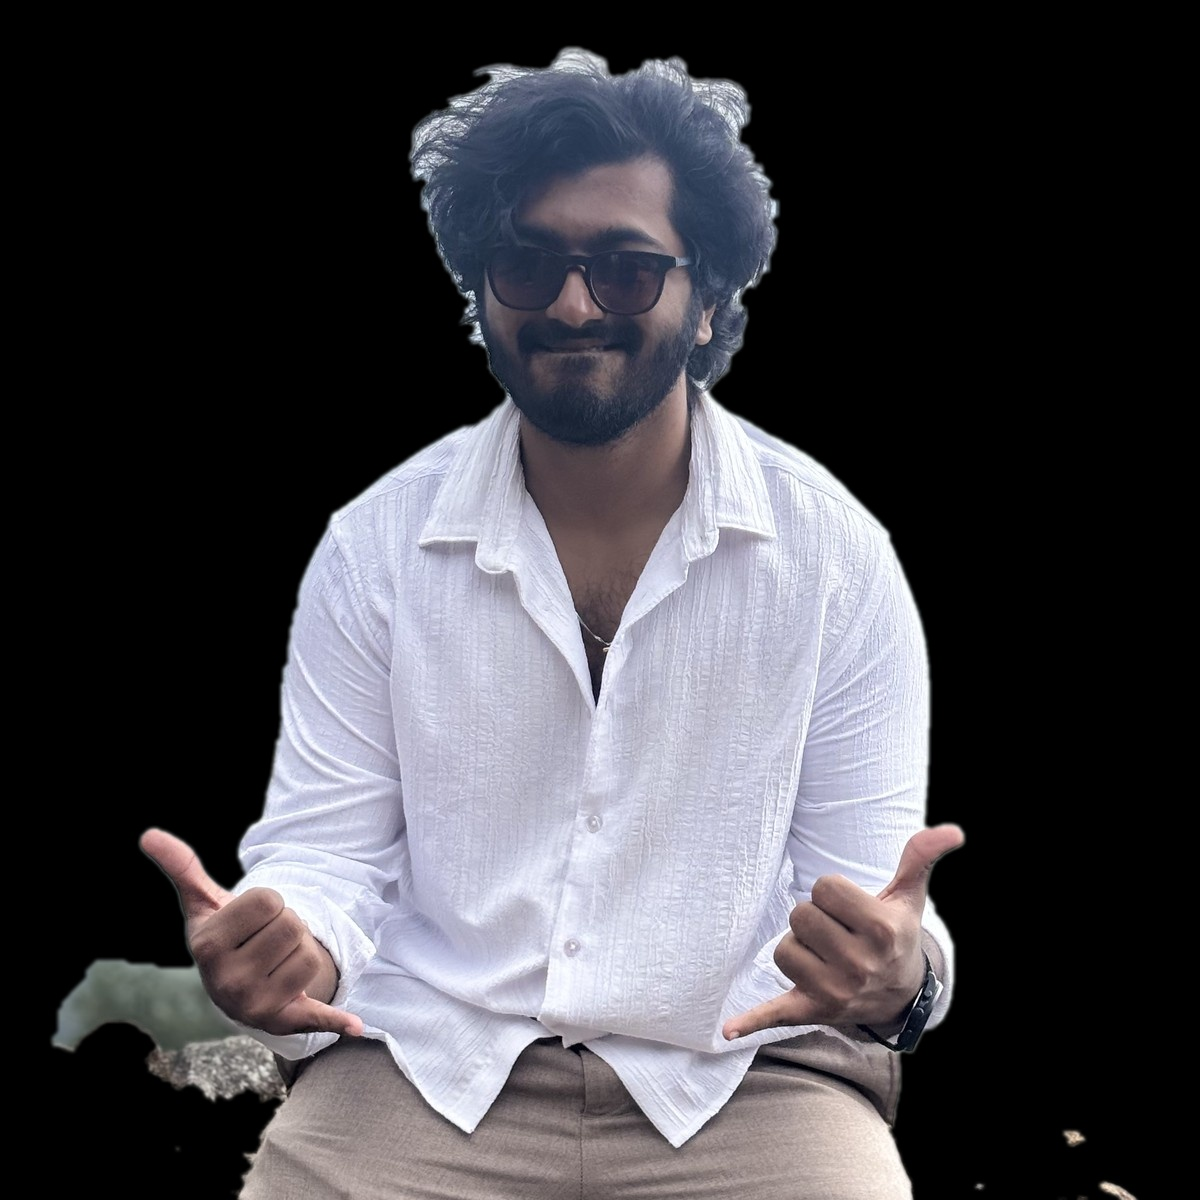
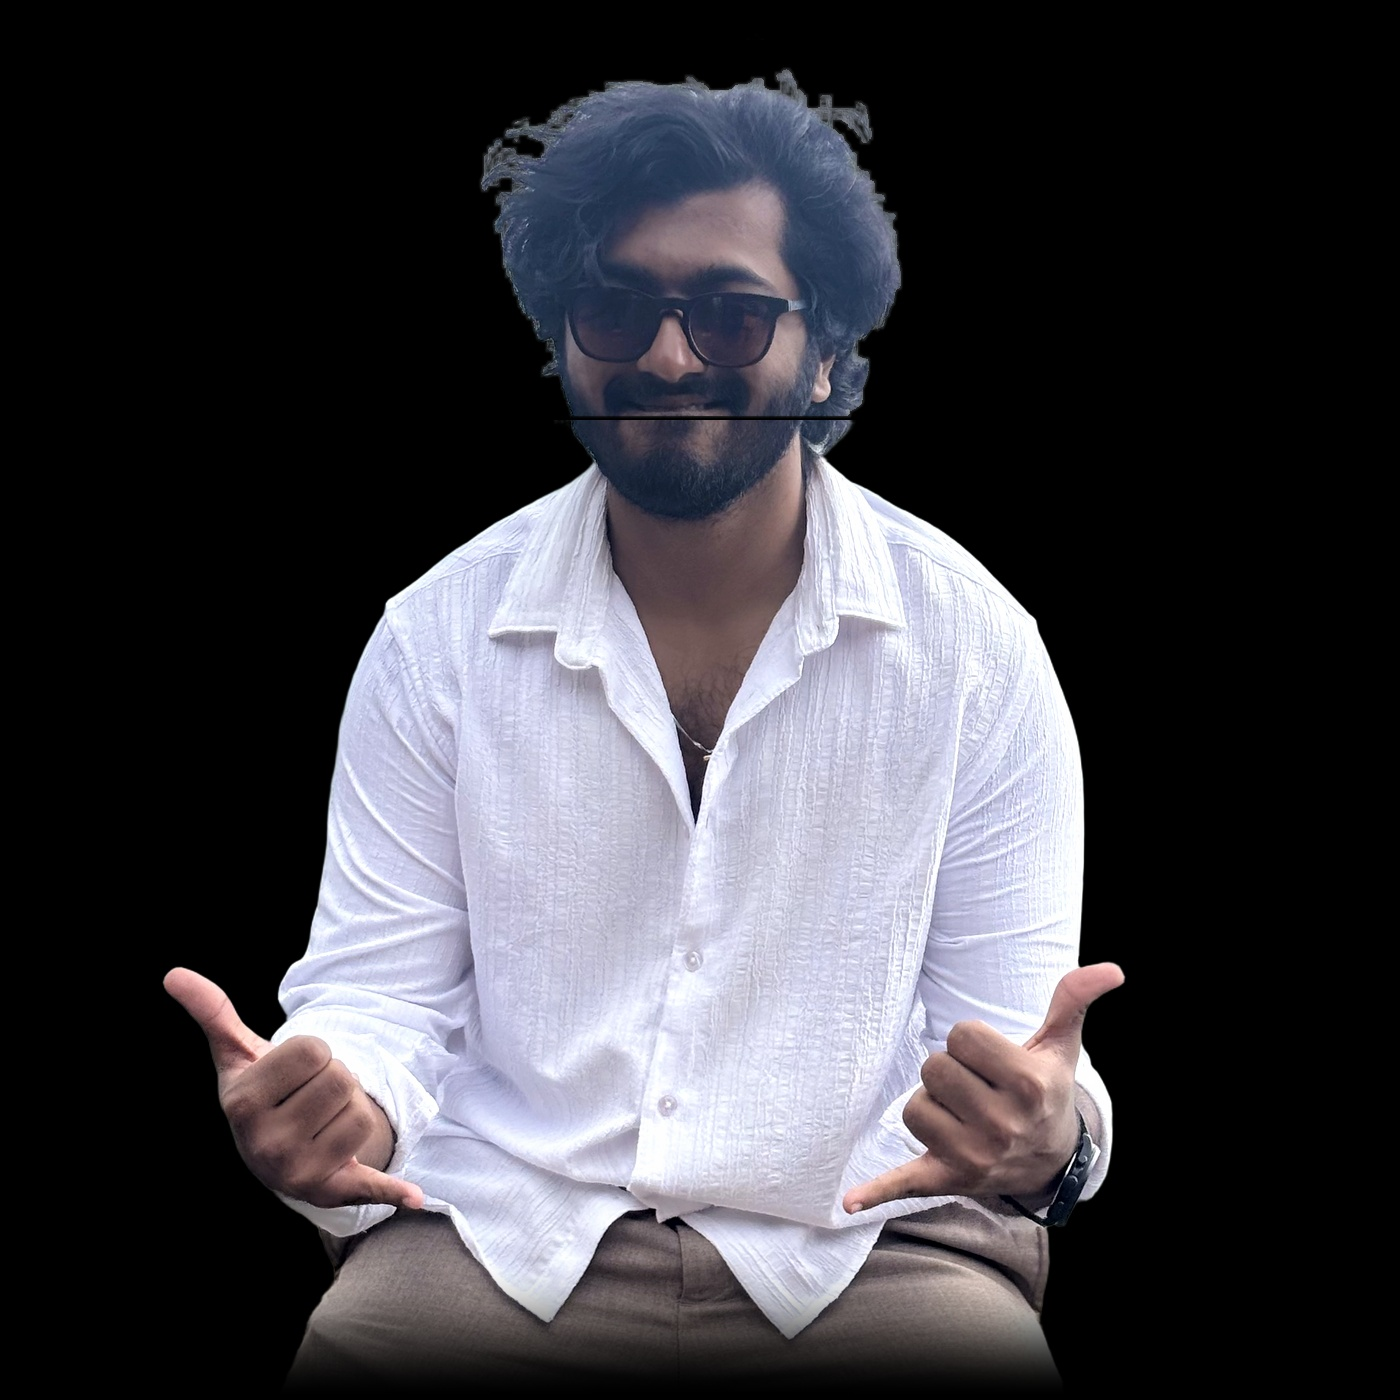
fix(photo): groom hair contour, eliminate stray strands/halo, and polish hero portrait framing

diff --git a/src/components/sections/HeroProfile.tsx b/src/components/sections/HeroProfile.tsx
@@ -7,20 +7,14 @@ import { SpiderIcon } from "@/components/ui/Icons";
 export default function HeroProfile() {
   return (
     <div className="relative w-full max-w-[440px] mx-auto flex items-center justify-center">
-      {/* Spider-Verse Ben-Day Comic Halftone Aura */}
-      <div className="absolute w-[280px] sm:w-[350px] aspect-square rounded-full halftone-dots-spider opacity-45 pointer-events-none -translate-y-6" />
+      {/* Spider-Verse Dimensional Aperture / Subtle Radial Halo */}
+      <div className="absolute w-[320px] sm:w-[380px] aspect-square rounded-full bg-gradient-to-b from-[#2a0845]/30 via-[#12071f]/15 to-transparent pointer-events-none blur-3xl -translate-y-4" />
 
-      {/* Background Michelangelo Creation of Adam — Atmospheric Art Motif */}
-      <div className="absolute inset-0 flex items-center justify-center pointer-events-none select-none opacity-30 sm:opacity-40">
-        <Image
-          src="/creation-of-adam-clean.png"
-          alt="Atmospheric artwork"
-          width={1200}
-          height={863}
-          priority
-          className="w-full h-auto object-contain filter contrast-125 brightness-90"
-        />
-      </div>
+      {/* Subtle Ben-Day Comic Halftone Disc */}
+      <div className="absolute w-[260px] sm:w-[320px] aspect-square rounded-full halftone-dots-spider opacity-20 pointer-events-none -translate-y-4" />
+
+      {/* Spider-Verse Framing Ring */}
+      <div className="absolute w-[280px] sm:w-[340px] aspect-square rounded-3xl border border-white/5 pointer-events-none -translate-y-4 shadow-[-2px_0_0_rgba(0,240,255,0.2),2px_0_0_rgba(174,4,13,0.3)]" />
 
       {/* Frame Container */}
       <motion.div
@@ -29,15 +23,15 @@ export default function HeroProfile() {
         transition={{ duration: 0.6, ease: [0.16, 1, 0.3, 1] }}
         className="relative z-10 w-full flex flex-col items-center"
       >
-        {/* Cutout Portrait Image with Spider-Verse Chromatic RGB Split Shadow */}
+        {/* Cutout Portrait Image with Refined Studio Dropshadow */}
         <div className="relative w-[300px] sm:w-[360px] lg:w-[400px] h-[380px] sm:h-[440px] lg:h-[480px] flex items-end justify-center overflow-hidden">
           <Image
             src="/profile-cutout.webp"
             alt="Abhinay Musku"
-            width={1200}
-            height={1200}
+            width={1400}
+            height={1400}
             priority
-            className="w-auto h-full object-contain object-bottom filter contrast-105 drop-shadow-[-3px_0_0_rgba(0,240,255,0.4)] drop-shadow-[3px_0_0_rgba(225,6,0,0.6)] drop-shadow-[0_20px_35px_rgba(42,8,69,0.5)] select-none pointer-events-none"
+            className="w-auto h-full object-contain object-bottom filter contrast-105 drop-shadow-[0_15px_30px_rgba(0,0,0,0.8)] drop-shadow-[-2px_0_0_rgba(0,240,255,0.2)] drop-shadow-[2px_0_0_rgba(174,4,13,0.3)] select-none pointer-events-none"
           />
         </div>
 
